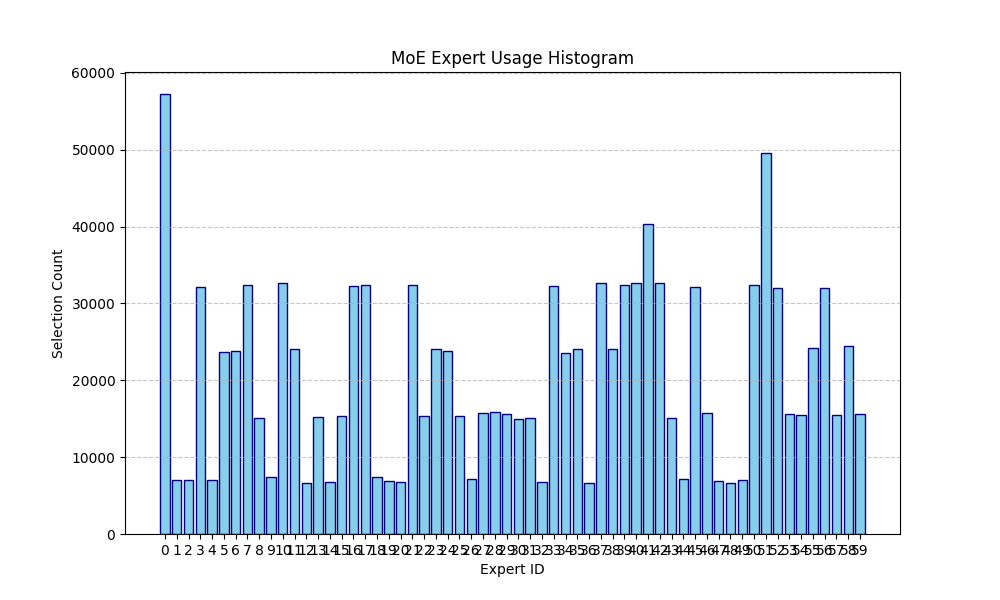
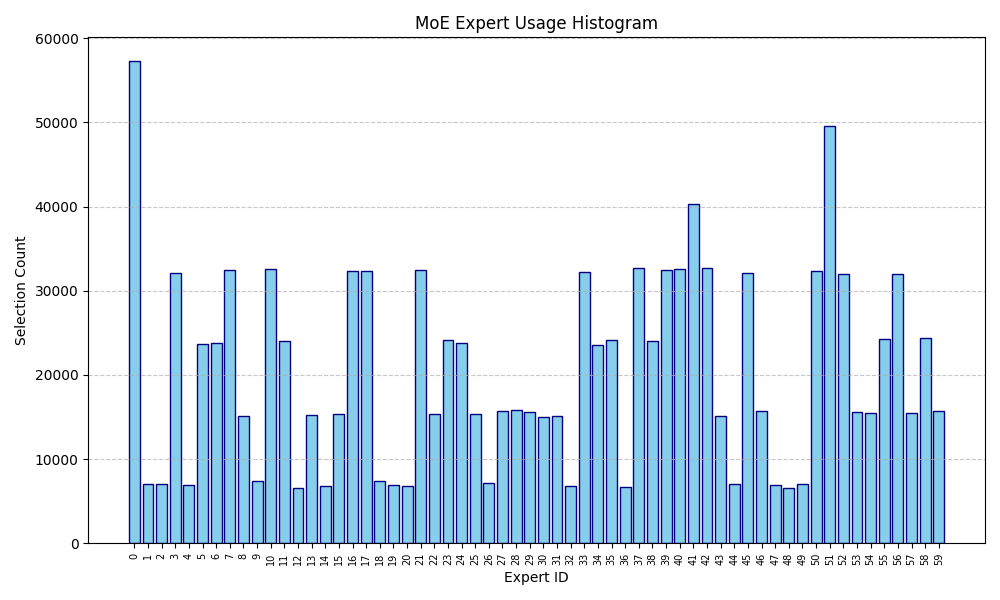
fixed plot

diff --git a/run_generate/plot_info.py b/run_generate/plot_info.py
@@ -23,10 +23,11 @@ def plot_usage(log_file):
     plt.xlabel("Expert ID")
     plt.ylabel("Selection Count")
     plt.title("MoE Expert Usage Histogram")
-    plt.xticks(experts)
+    plt.xticks(experts, fontsize=7, rotation=90, ha='center')
     plt.grid(axis='y', linestyle='--', alpha=0.7)
+    plt.tight_layout()
     plt.savefig("expert_hist.png")
     print("Histogram saved to expert_hist.png")
 
 if __name__ == "__main__":
-    plot_usage("vllm_moe_log.jsonl")
+    plot_usage("data_hooked/vllm_moe_log.jsonl")
